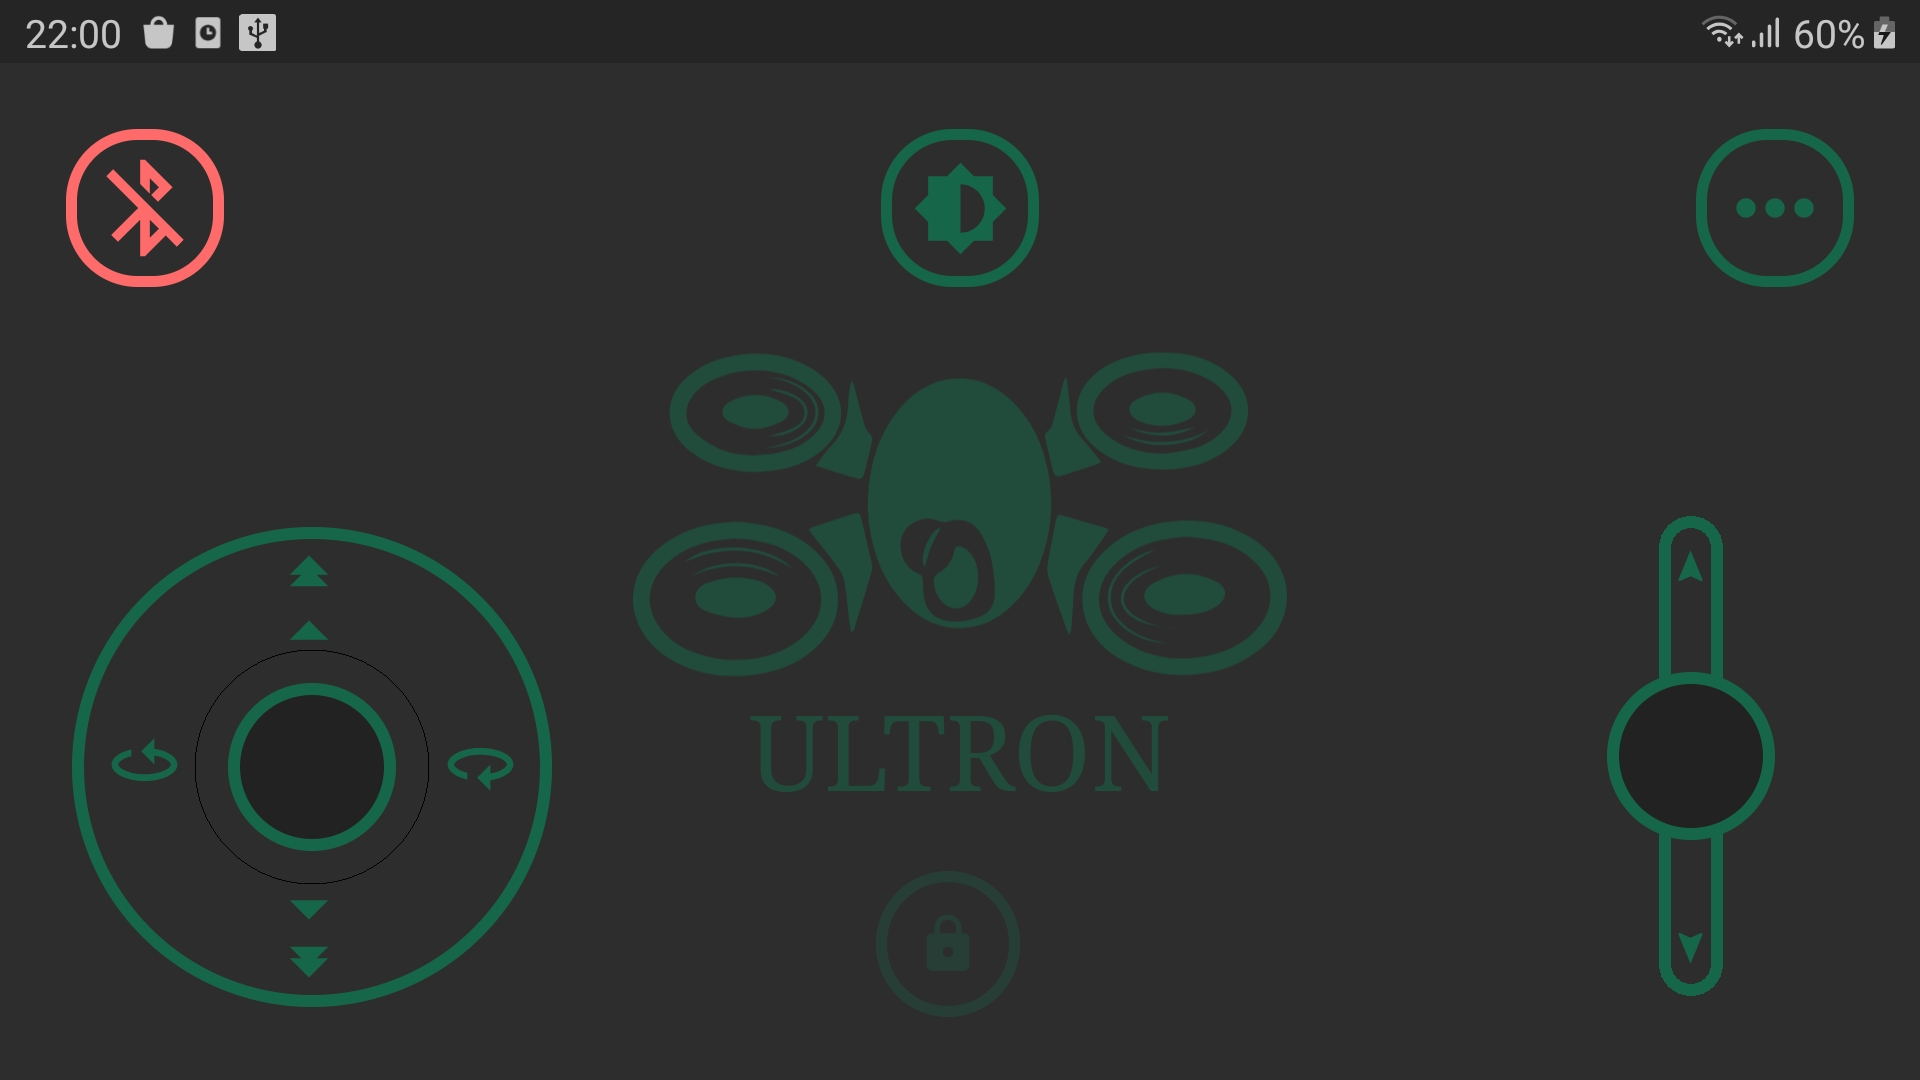
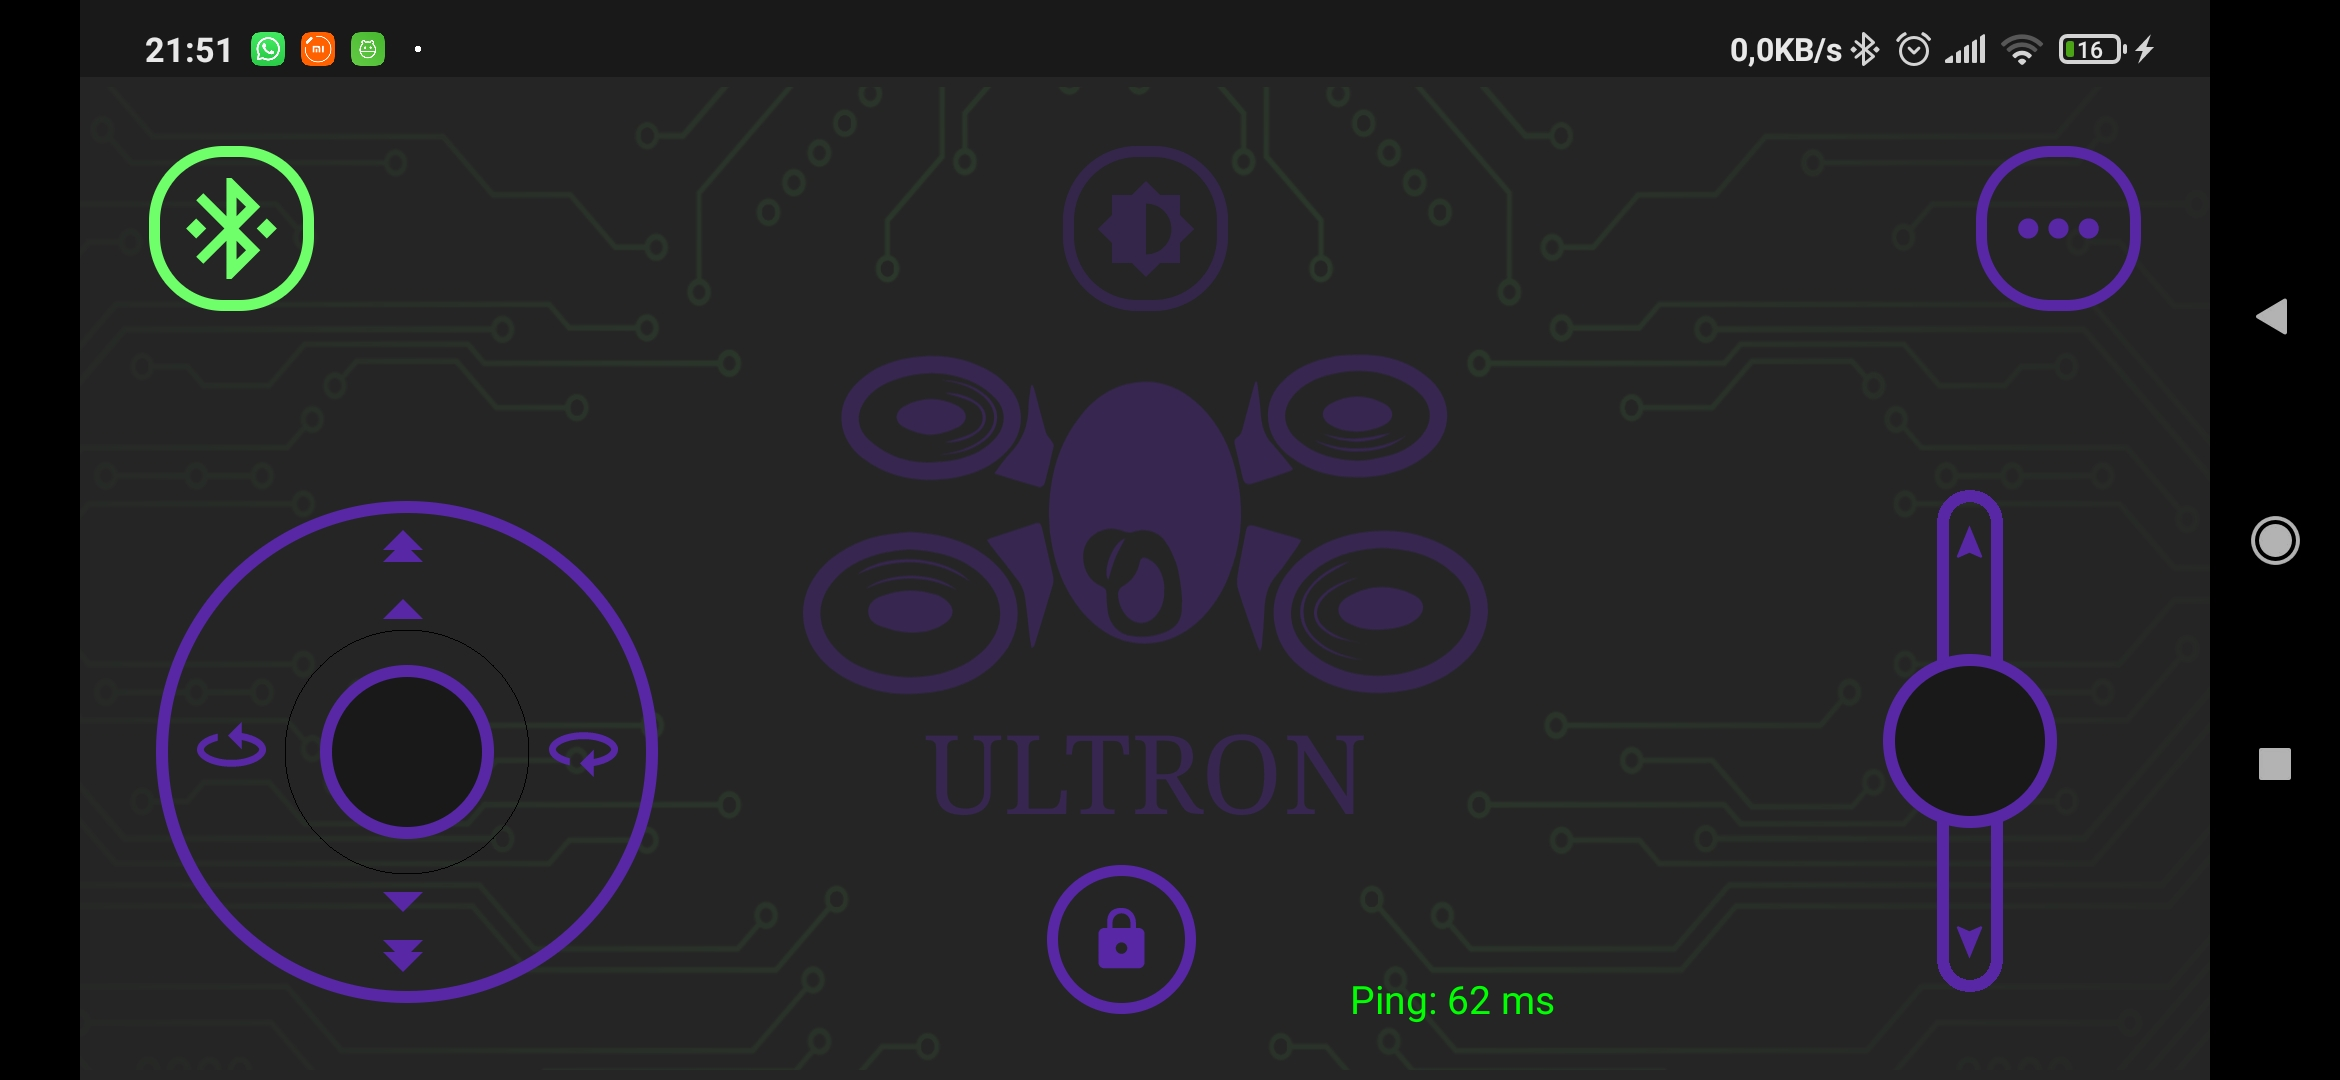
Alteração das cores (dark), otimização da Sketch.

diff --git a/joystickUltron/app/src/main/java/com/example/joystickUltron/MainActivity.java b/joystickUltron/app/src/main/java/com/example/joystickUltron/MainActivity.java
@@ -67,6 +67,7 @@ public class MainActivity extends AppCompatActivity {
 
 
 
+    @SuppressLint("HandlerLeak")
     @Override
     protected void onCreate(Bundle savedInstanceState) {
         super.onCreate(savedInstanceState);
@@ -90,11 +91,11 @@ public class MainActivity extends AppCompatActivity {
         rightJoystick = (JoystickViewRight) findViewById(R.id.rightJoystick);
 
 
-        leftJoystick.corBtn = temaDark? "#222222" : "#626262";
-        leftJoystick.corBtnBorder = temaDark? "#166749": "#81b7ff";
+        leftJoystick.corBtn = temaDark? "#191919" : "#626262";
+        leftJoystick.corBtnBorder = temaDark? "#5727A6": "#81b7ff";
 
-        rightJoystick.corBtn = temaDark? "#222222" : "#626262";
-        rightJoystick.corBtnBorder = temaDark? "#166749": "#81b7ff";
+        rightJoystick.corBtn = temaDark? "#191919" : "#626262";
+        rightJoystick.corBtnBorder = temaDark? "#5727A6": "#81b7ff";
 
         btnCredits.setOnTouchListener(new View.OnTouchListener() {
             @Override
@@ -249,6 +250,7 @@ public class MainActivity extends AppCompatActivity {
                         btnTheme.setAlpha(1f);
                         swipeButton.setAlpha(.3f);
                         btnConexao.setColorFilter(Color.parseColor("#FF6A6A"));
+                        txtPing.setText("");
                         Toast.makeText(getApplicationContext(), "Desconectado", Toast.LENGTH_LONG).show();
                     } catch (IOException erro){
                         Toast.makeText(getApplicationContext(), "Ocorreu um erro." + erro, Toast.LENGTH_LONG).show();
@@ -288,7 +290,7 @@ public class MainActivity extends AppCompatActivity {
                             txtPing.setText("Ping: " + (pingValor) + " ms");
                             int pingInt = Integer.parseInt((pingValor));
                             if(pingInt < 200){ txtPing.setTextColor(Color.GREEN);}
-                            else if((pingInt >= 200) && pingInt < 550){txtPing.setTextColor(Color.YELLOW);}
+                            else if(pingInt >= 200 && pingInt < 550){txtPing.setTextColor(Color.YELLOW);}
                             else{ txtPing.setTextColor(Color.RED);}
                         }
                         dadosBluetooth.delete(0, dadosBluetooth.length());
